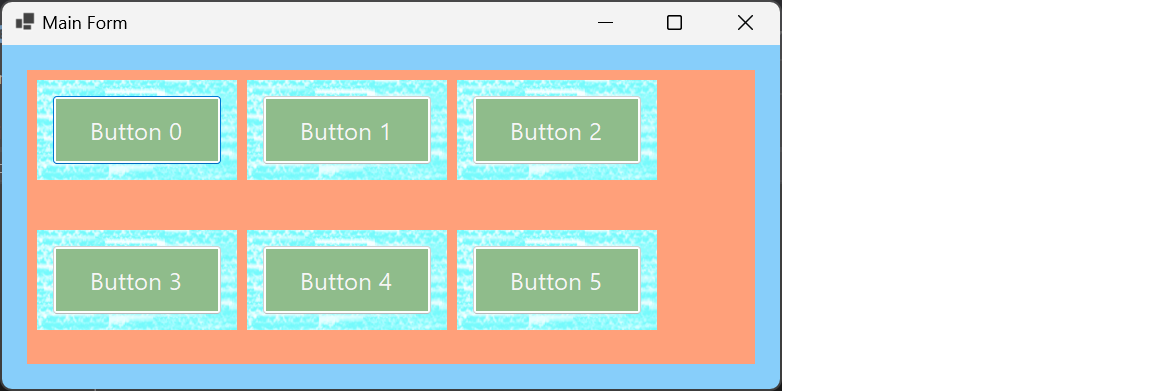
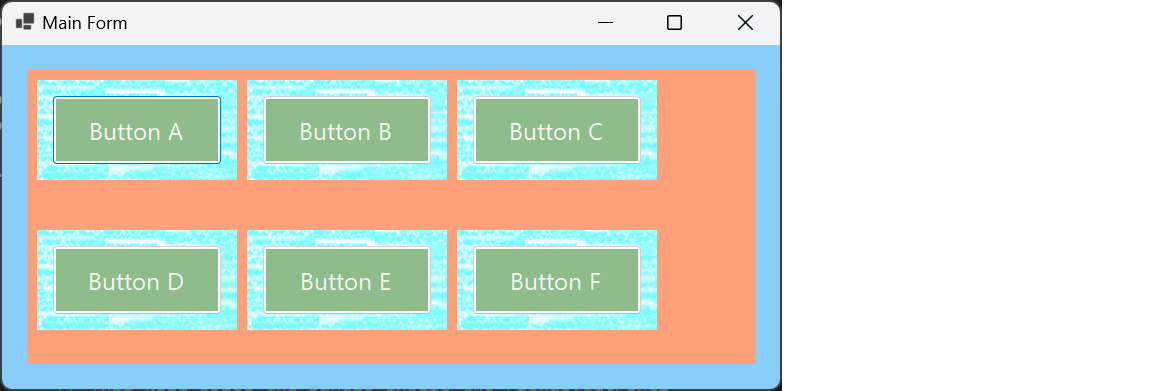
go live

diff --git a/README.md b/README.md
@@ -1,0 +1,71 @@
+One way to think about it (generally) is that `Margin` is something that happens _outside_ the control whereas `Padding` is something that happens _inside_. Also, the "total" effect can be the result of the parent's padding added to the margin of the child control.
+
+[![screenshot][1]][1]
+
+- The `MainForm` has **padding** of 25 (shown in blue) and contains a `FlowLayoutPanel` set to `Dock.Fill`. _To avoid confusion, the padding and margin of the flow layout panel is set to 0._
+- The 6 child controls of the flow layout panel set their own left-top **margin** to 10 and bottom **margin** to 40. _At the top left and the bottom of each child the `BackColor` of `LightSalmon` shows through. There is a total of 50 from the bottom of one child to the top of the next one below._ Each child control also sets its **padding** value to 15 which will apply on all four sides of the buttons it contains.
+- The padding and margin of `Button` are also set to 0. The the button is auto-sized and centered because it is anchored on all sides.
+
+***
+
+    public partial class MainForm : Form
+    {
+        public MainForm()
+        {
+            InitializeComponent();
+
+            // Main form Margin in light blue
+            BackColor = Color.LightSkyBlue;
+            Padding = new Padding(25);
+
+            flowLayoutPanel.BackColor = Color.LightSalmon;
+            // Set these to 0 and let the individual controls
+            // manage the padding and margins.
+            flowLayoutPanel.Margin = new Padding(all: 0);
+            flowLayoutPanel.Padding = new Padding(all: 0);
+
+            for (int i = 1; i <= 6; i++)
+            {
+                var panel = new TableLayoutPanel
+                {
+                    Name = $"panel{i}",
+                    Size = new Size(200, 100),
+
+                    // Margin 'outside' the panel will show in Light Salmon.
+                    // This will space the panels inside the FlowLayoutPanel
+                    Margin = new Padding(left: 10, top: 10, right: 0, bottom: 40),
+
+                    // The button inside this panel will have Padding around it.
+                    Padding = new Padding(all: 15),
+
+                    BackColor = Color.LightGreen,
+                    BackgroundImage = new Bitmap(
+                        Path.Combine(
+                            AppDomain.CurrentDomain.BaseDirectory,
+                            "Images",
+                            "back-image.png"
+                        )),
+                    BackgroundImageLayout = ImageLayout.Stretch,
+                };
+                // Add button to internal panel
+                var button = new Button
+                {
+                    Name = $"button{i}",
+                    Text = $"Button {(char)(64 + i)}",
+                    BackColor = Color.DarkSeaGreen,
+                    ForeColor = Color.WhiteSmoke,
+                    // By anchoring the button, it will autosize
+                    // respecting the Padding of its parent.
+                    Anchor = AnchorStyles.Left | AnchorStyles.Top | AnchorStyles.Right | AnchorStyles.Bottom,
+                    Margin = new Padding(all: 0),
+                    Padding = new Padding(all: 0),
+                };
+                panel.Controls.Add(button);
+
+                flowLayoutPanel.Controls.Add(panel);
+            }
+        }
+    }
+
+
+  [1]: https://i.stack.imgur.com/ur69n.png

diff --git a/LICENSE.md b/LICENSE.md
@@ -1,0 +1,10 @@
+MIT License
+
+Copyright (c) 2023 IVSoftware 
+Author: Thomas C. Gregor
+
+Permission is hereby granted, free of charge, to any person obtaining a copy of this software and associated documentation files (the "Software"), to deal in the Software without restriction, including without limitation the rights to use, copy, modify, merge, publish, distribute, sublicense, and/or sell copies of the Software, and to permit persons to whom the Software is furnished to do so, subject to the following conditions:
+
+The above copyright notice and this permission notice shall be included in all copies or substantial portions of the Software.
+
+THE SOFTWARE IS PROVIDED "AS IS", WITHOUT WARRANTY OF ANY KIND, EXPRESS OR IMPLIED, INCLUDING BUT NOT LIMITED TO THE WARRANTIES OF MERCHANTABILITY, FITNESS FOR A PARTICULAR PURPOSE AND NONINFRINGEMENT. IN NO EVENT SHALL THE AUTHORS OR COPYRIGHT HOLDERS BE LIABLE FOR ANY CLAIM, DAMAGES OR OTHER LIABILITY, WHETHER IN AN ACTION OF CONTRACT, TORT OR OTHERWISE, ARISING FROM, OUT OF OR IN CONNECTION WITH THE SOFTWARE OR THE USE OR OTHER DEALINGS IN THE SOFTWARE.
